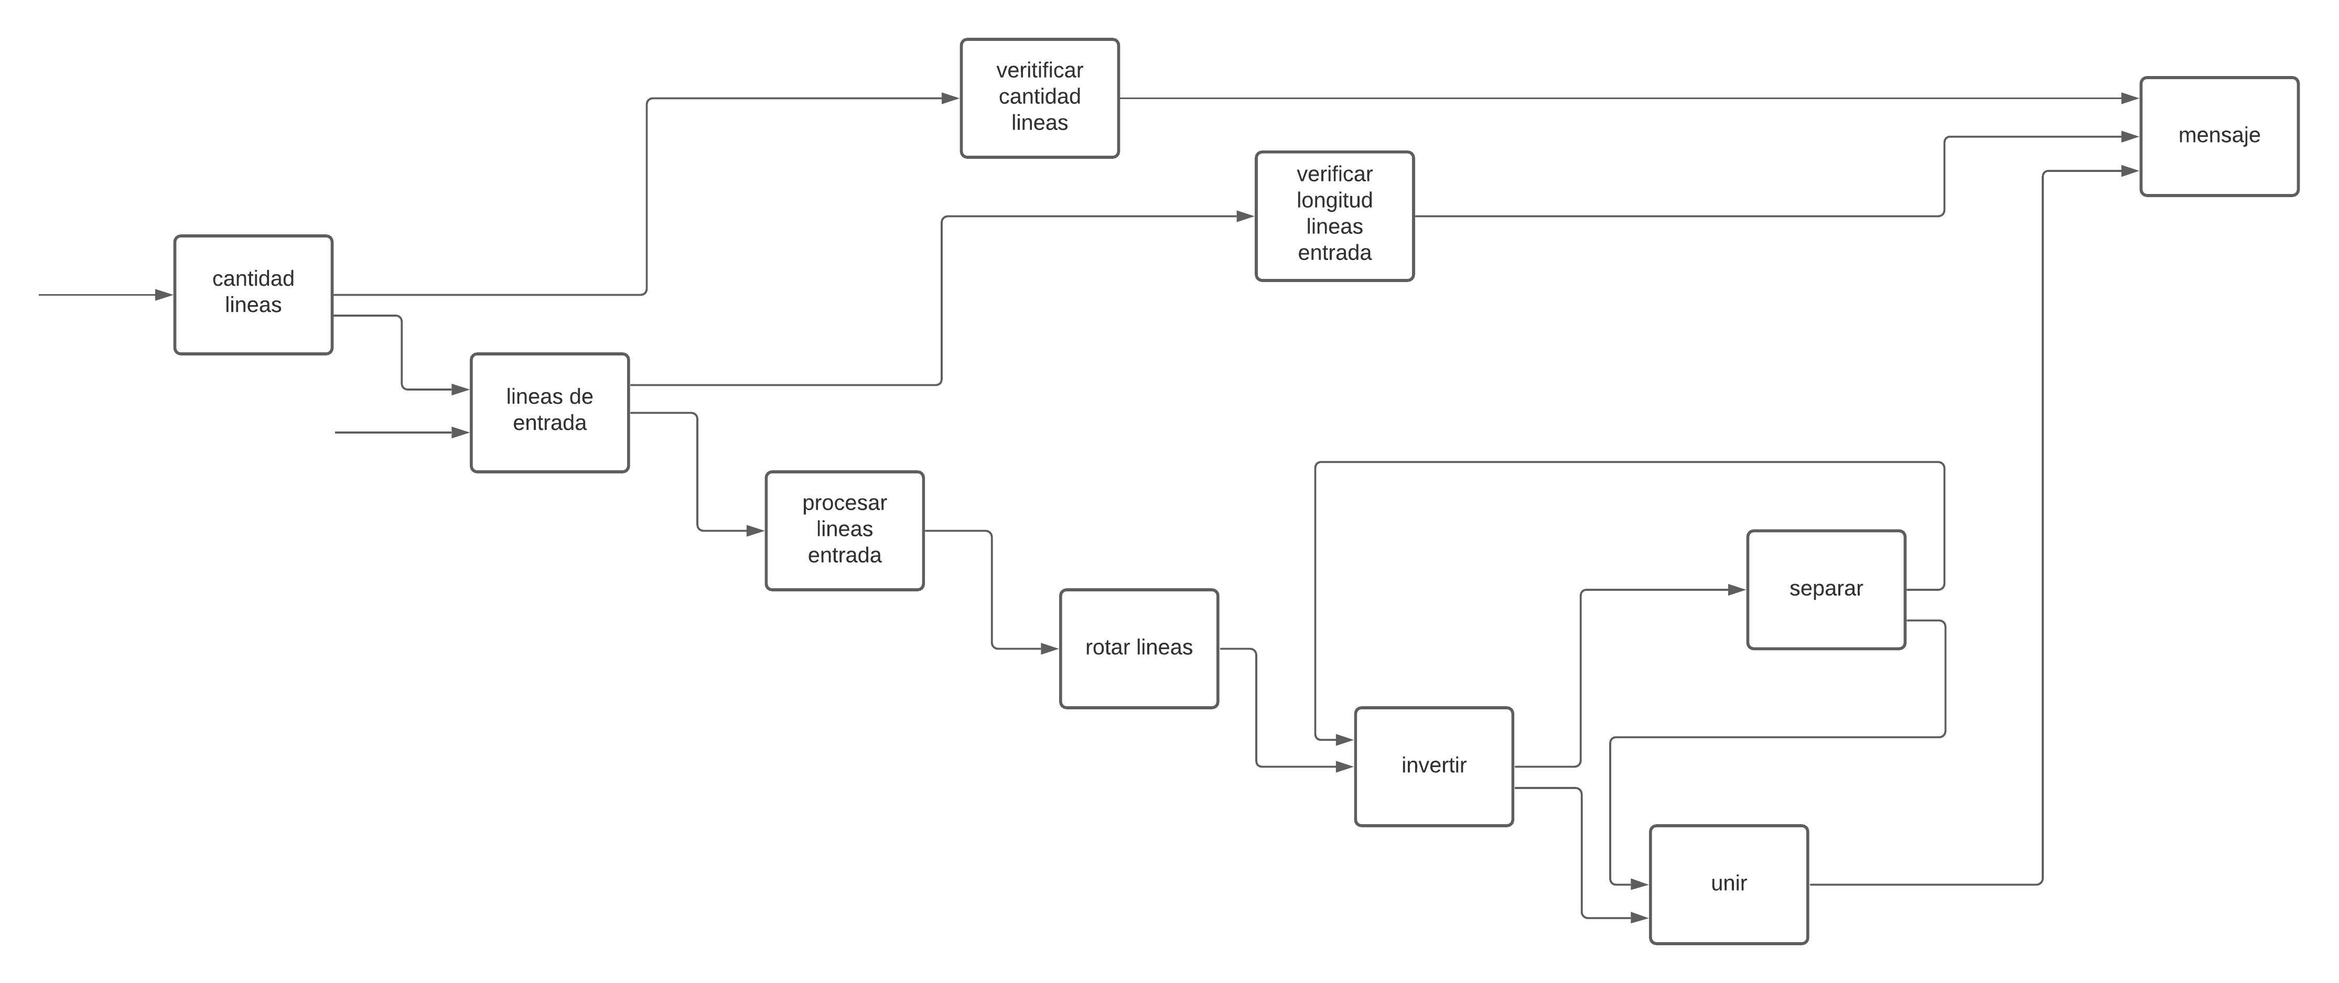
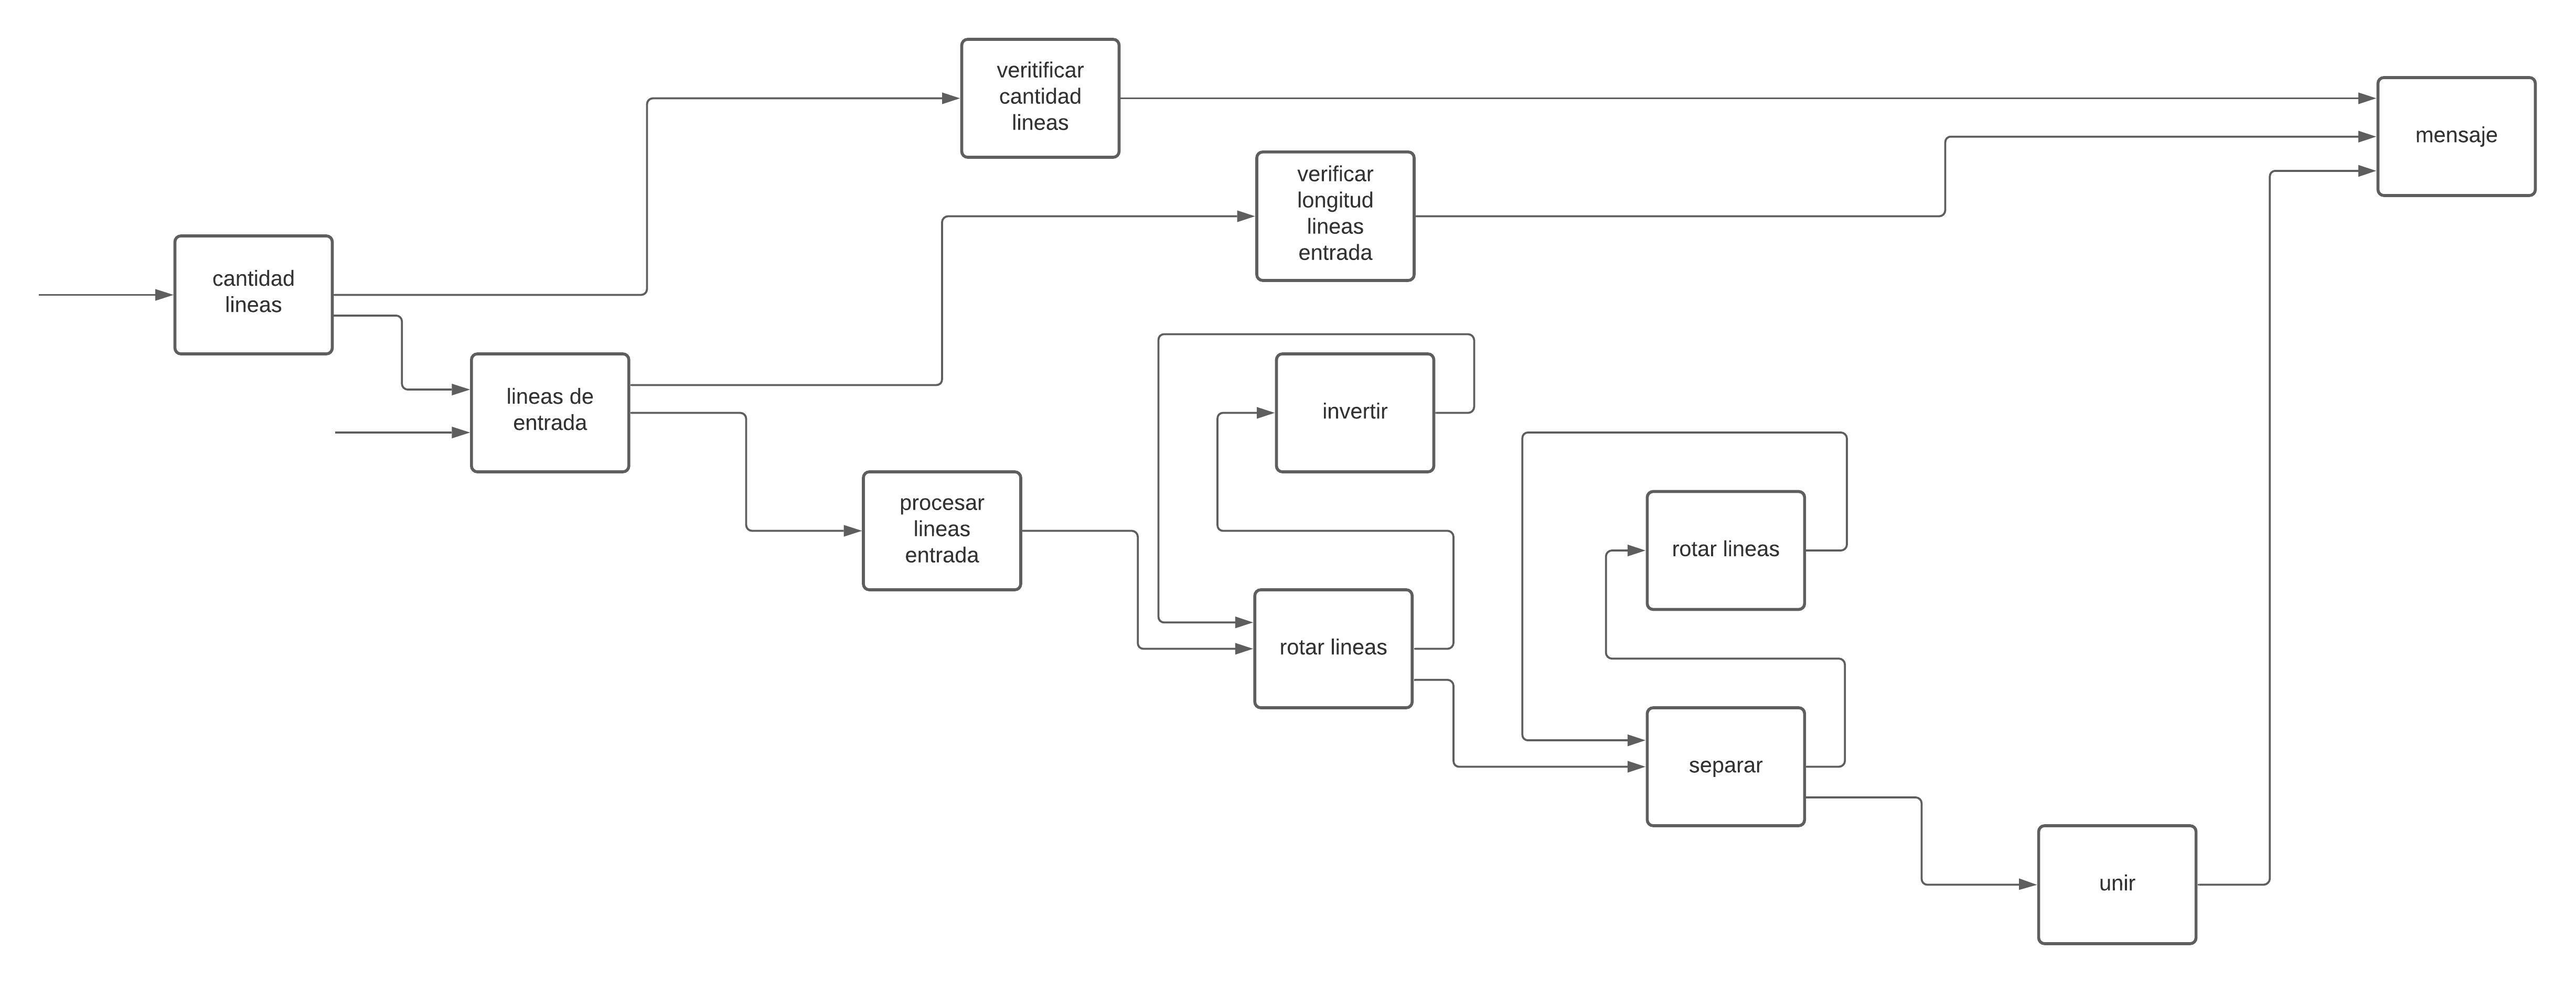
fix : Corrección del flujo de operaciones.

diff --git a/ejemplo_01.py b/ejemplo_01.py
@@ -3,71 +3,103 @@
 import math
 
 
-# -------------------------------------------------
-def filtro01(cadena):
-	# cada letra mayúscula o minúscula
-	# debe desplazarse tres posiciones hacia la derecha
-	resultado = filtro02(cadena, 3, 0, False)
 
-	resultado = resultado[::-1]
-	
-	
-	mitad = int(len(resultado)/2)
-	p1 = resultado[:mitad]
-	p2 = resultado[mitad:]
-	# la mitad en adelante (truncado)
-	# deben moverse una posición a la izquierda
-	p2 = filtro02(p2, 1, 1, True)
-	
-	resultado = p1+p2
-	return resultado
 # -------------------------------------------------
-def rotacion(cadena, posiciones, orientacion, codigo):
-	# [orientacion] == 0 , derecha
-	# [orientacion] == 1 , izquierda
-	resultado = ''
-	for cadA in cadena:
-		if (
-			((ord(cadA) >= ord('a')) and (ord(cadA) <= ord('o')))
-			or
-			((ord(cadA) >= ord('p')) and (ord(cadA) <= ord('z')))
-			or
-			((ord(cadA) >= ord('A')) and (ord(cadA) <= ord('O')))
-			or
-			((ord(cadA) >= ord('P')) and (ord(cadA) <= ord('Z')))
-			or
-			codigo
-		):
-			varA = cadA			#string
-			varB = ord(cadA)	#decimal
-			varC = chr(varB)	#string
-			if (orientacion == 0): varB = varB + posiciones	#decimal +3
-			if (orientacion == 1): varB = varB - posiciones	#decimal +3
-			varA = chr(varB)	#string +3
-			resultado = resultado + varA
-		else:
-			resultado = resultado + cadA
-	return resultado
+def unir(vector_parte_a, vector_parte_b):
+	vector_resultado = []
+	# len vpa = vpb
+	repeticion = len(vector_parte_a)
+	for it in range(repeticion):
+		vector_resultado.append(
+				str(vector_parte_a[it]) +
+				str(vector_parte_b[it])
+			)
+	mostrar_mensaje(vector_resultado)
+# -------------------------------------------------
+def rotar_lineas_2(vectorLineas, rotacion, movi):
+	vectorLineas_tmp = []
+	letra_tmp = ''
+	for linea in vectorLineas:
+		letra_tmp = ''
+		for letra in linea:
+			# rotacion :: [0=derecha][1=izquierda]
+			# movi = n :: cantidad del desplazamiento
+			if (rotacion == 0): letra_tmp = letra_tmp + chr(ord(letra) + movi)
+			if (rotacion == 1): letra_tmp = letra_tmp + chr(ord(letra) - movi)
+		vectorLineas_tmp.append(letra_tmp)
+		#print ('letra_tmp', letra_tmp)
+	vectorLineas = vectorLineas_tmp
+	return vectorLineas
+# -------------------------------------------------
+def separar(vectorLineas):
+	vector_parte_a = []
+	vector_parte_b = []	
+	
+	for cadena in vectorLineas:
+		mitad = int(len(cadena)/2)
+		vector_parte_a.append(cadena[:mitad]) # ab
+		vector_parte_b.append(cadena[mitad:]) # cd
+	print ('separar', 'vector_parte_a', vector_parte_a)
+	print ('separar', 'vector_parte_b', vector_parte_b)
+	# rotacion :: [0=derecha][1=izquierda]
+	# movi = n :: cantidad del desplazamiento
+	rotacion = 1
+	movi = 1
+	vector_parte_b = rotar_lineas_2(vector_parte_b, rotacion, movi)
+	print ('separar', 'vector_parte_b', vector_parte_b)
+	#exit()
+	unir(vector_parte_a, vector_parte_b)
+# -------------------------------------------------
+def invertir(vectorLineas):
+	vectorLineas_tmp = []
+	for linea in vectorLineas:
+		vectorLineas_tmp.append(linea[::-1])
+	vectorLineas = vectorLineas_tmp
+	return vectorLineas
+# -------------------------------------------------
+def rotar_lineas(vectorLineas, rotacion, movi):
+	vectorLineas_tmp = []
+	letra_tmp = ''
+	print ('rotar_lineas', 'antes', vectorLineas)
+	for linea in vectorLineas:
+		letra_tmp = ''
+		for letra in linea:
+			if (
+				((ord(letra) >= ord('a')) and (ord(letra) <= ord('o')))
+				or
+				((ord(letra) >= ord('p')) and (ord(letra) <= ord('z')))
+				or
+				((ord(letra) >= ord('A')) and (ord(letra) <= ord('O')))
+				or
+				((ord(letra) >= ord('P')) and (ord(letra) <= ord('Z')))
+			):
+				# rotacion :: [0=derecha][1=izquierda]
+				# movi = n :: cantidad del desplazamiento
+				if (rotacion == 0): letra_tmp = letra_tmp + str(chr(ord(letra) + movi))
+				if (rotacion == 1): letra_tmp = letra_tmp + str(chr(ord(letra) - movi))
+			else:
+				letra_tmp = letra_tmp + letra
+		vectorLineas_tmp.append(letra_tmp)
+		#print ('letra_tmp', letra_tmp)
+	vectorLineas = vectorLineas_tmp
+	print ('rotar_lineas', 'despu', vectorLineas)
+	#return vectorLineas
+	vectorLineas = invertir(vectorLineas)
+	print ('rotar_lineas', 'inver', vectorLineas)
+	#exit()
+	separar(vectorLineas)
 # -------------------------------------------------
 def procesar_lineas_entrada(vectorLineas):
 	vector_aux = []
-	for linea in vectorLineas:
-		vector_aux.append(rotar_linea(linea))
-	# tipo = 0 :: rotacion derecha
-	# tipo = 1 :: rotacion izquierda
+	# rotacion :: [0=derecha][1=izquierda]
 	# movi = n :: cantidad del desplazamiento
-	tipo = 0
-	movi = 3	
-	#rotacion(vectorLineas, tipo, movi)
-	exit()
-# -------------------------------------------------	
-def mostrar_mensaje(cadena):
-	print (cadena)
-	print ('*'*40)
+	rotacion	= 0
+	movi		= 3
+	rotar_lineas(vectorLineas, rotacion, movi)
 # -------------------------------------------------
-def verif_long_lineas_de_entrada(string_alfanumerico):
+def verificar_longitud_lineas_entrada(string_alfanumerico):
 	entradaMIN = 1
-	entradaMAX = 3
+	entradaMAX = 100
 	longitud_actual = len(string_alfanumerico)
 	bandera = True
 	if (longitud_actual < entradaMIN):
@@ -80,9 +112,26 @@ def verif_long_lineas_de_entrada(string_alfanumerico):
 		bandera = False
 	return bandera
 # -------------------------------------------------
-def verificar_cant_lineas(nro_lineas):
+def lineas_entrada(nro_lineas):
+	vectorLineas = []
+	linea = 0
+	bandera = False
+	while (linea < nro_lineas):
+		string_alfanumerico = input('Linea '+str(linea)+'     :: ')
+		bandera = verificar_longitud_lineas_entrada(string_alfanumerico)
+		if (bandera):
+			linea = linea + 1
+			bandera = False
+			vectorLineas.append(string_alfanumerico)
+	procesar_lineas_entrada(vectorLineas)
+# -------------------------------------------------
+def mostrar_mensaje(cadena):
+	print (cadena)
+	print ('*'*40)
+# -------------------------------------------------
+def verificar_cantidad_lineas(nro_lineas):
 	entradaMIN = 1
-	entradaMAX = 3
+	entradaMAX = 10
 	mensaje = ''
 	bandera = True
 	if (not nro_lineas.isnumeric()):
@@ -101,26 +150,13 @@ def verificar_cant_lineas(nro_lineas):
 			bandera = False
 	return bandera
 # -------------------------------------------------
-def lineas_de_entrada(nro_lineas):
-	vectorLineas = []
-	linea = 0
-	bandera = False
-	while (linea < nro_lineas):
-		string_alfanumerico = input('Linea '+str(linea)+'     :: ')
-		bandera = verif_long_lineas_de_entrada(string_alfanumerico)
-		if (bandera):
-			linea = linea + 1
-			bandera = False
-			vectorLineas.append(string_alfanumerico)
-	procesar_lineas_entrada(vectorLineas)
-# -------------------------------------------------
 def cantidad_lineas():
 	bandera = False
 	while (not bandera):
 		nro_lineas = input('[nro_lineas]     :: ')
-		bandera = verificar_cant_lineas(nro_lineas)
+		bandera = verificar_cantidad_lineas(nro_lineas)
 	nro_lineas = int(nro_lineas)
-	lineas_de_entrada(nro_lineas)
+	lineas_entrada(nro_lineas)
 # **************************************************
 # ******************  M  A  I  N
 cantidad_lineas()
